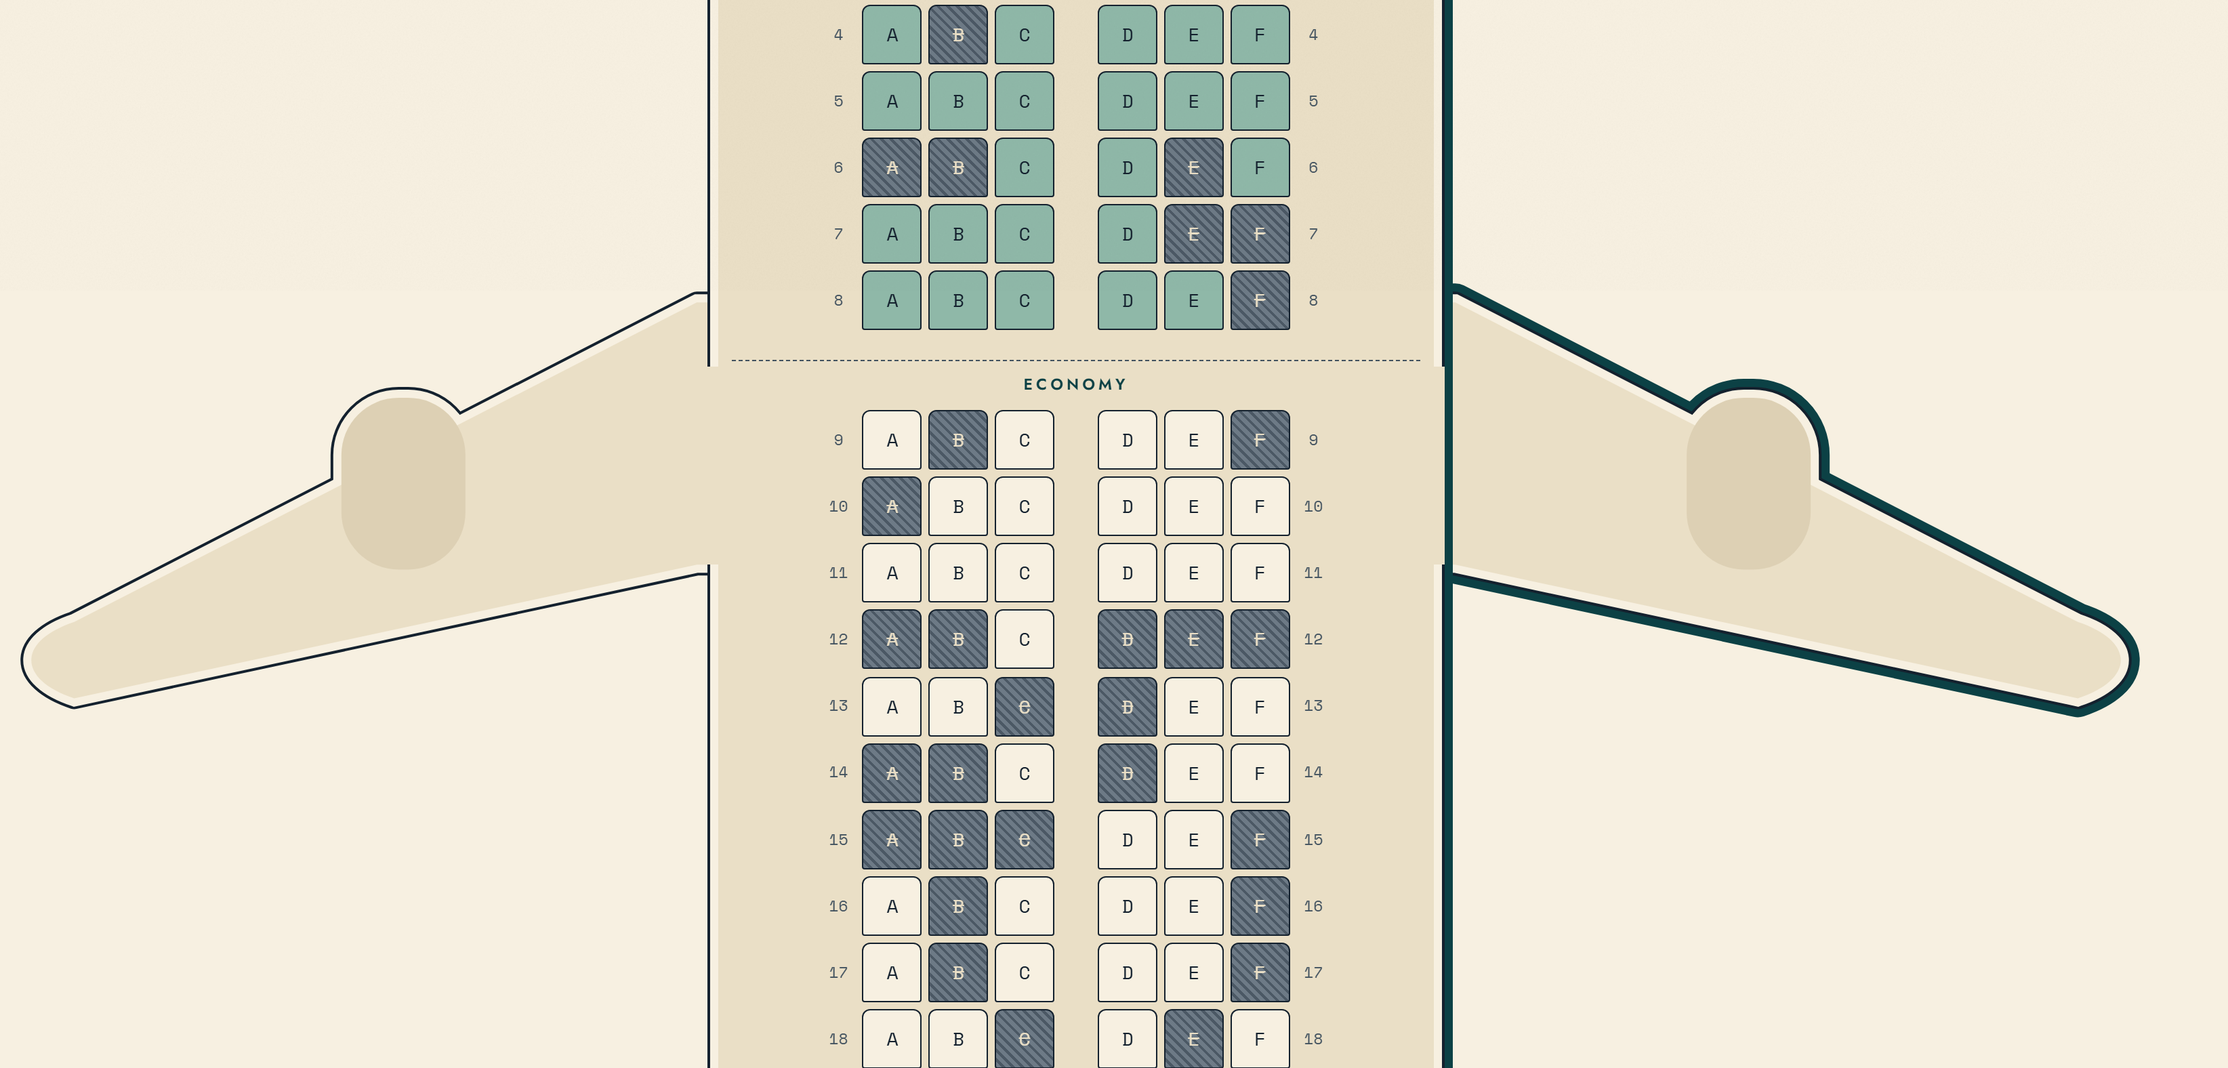
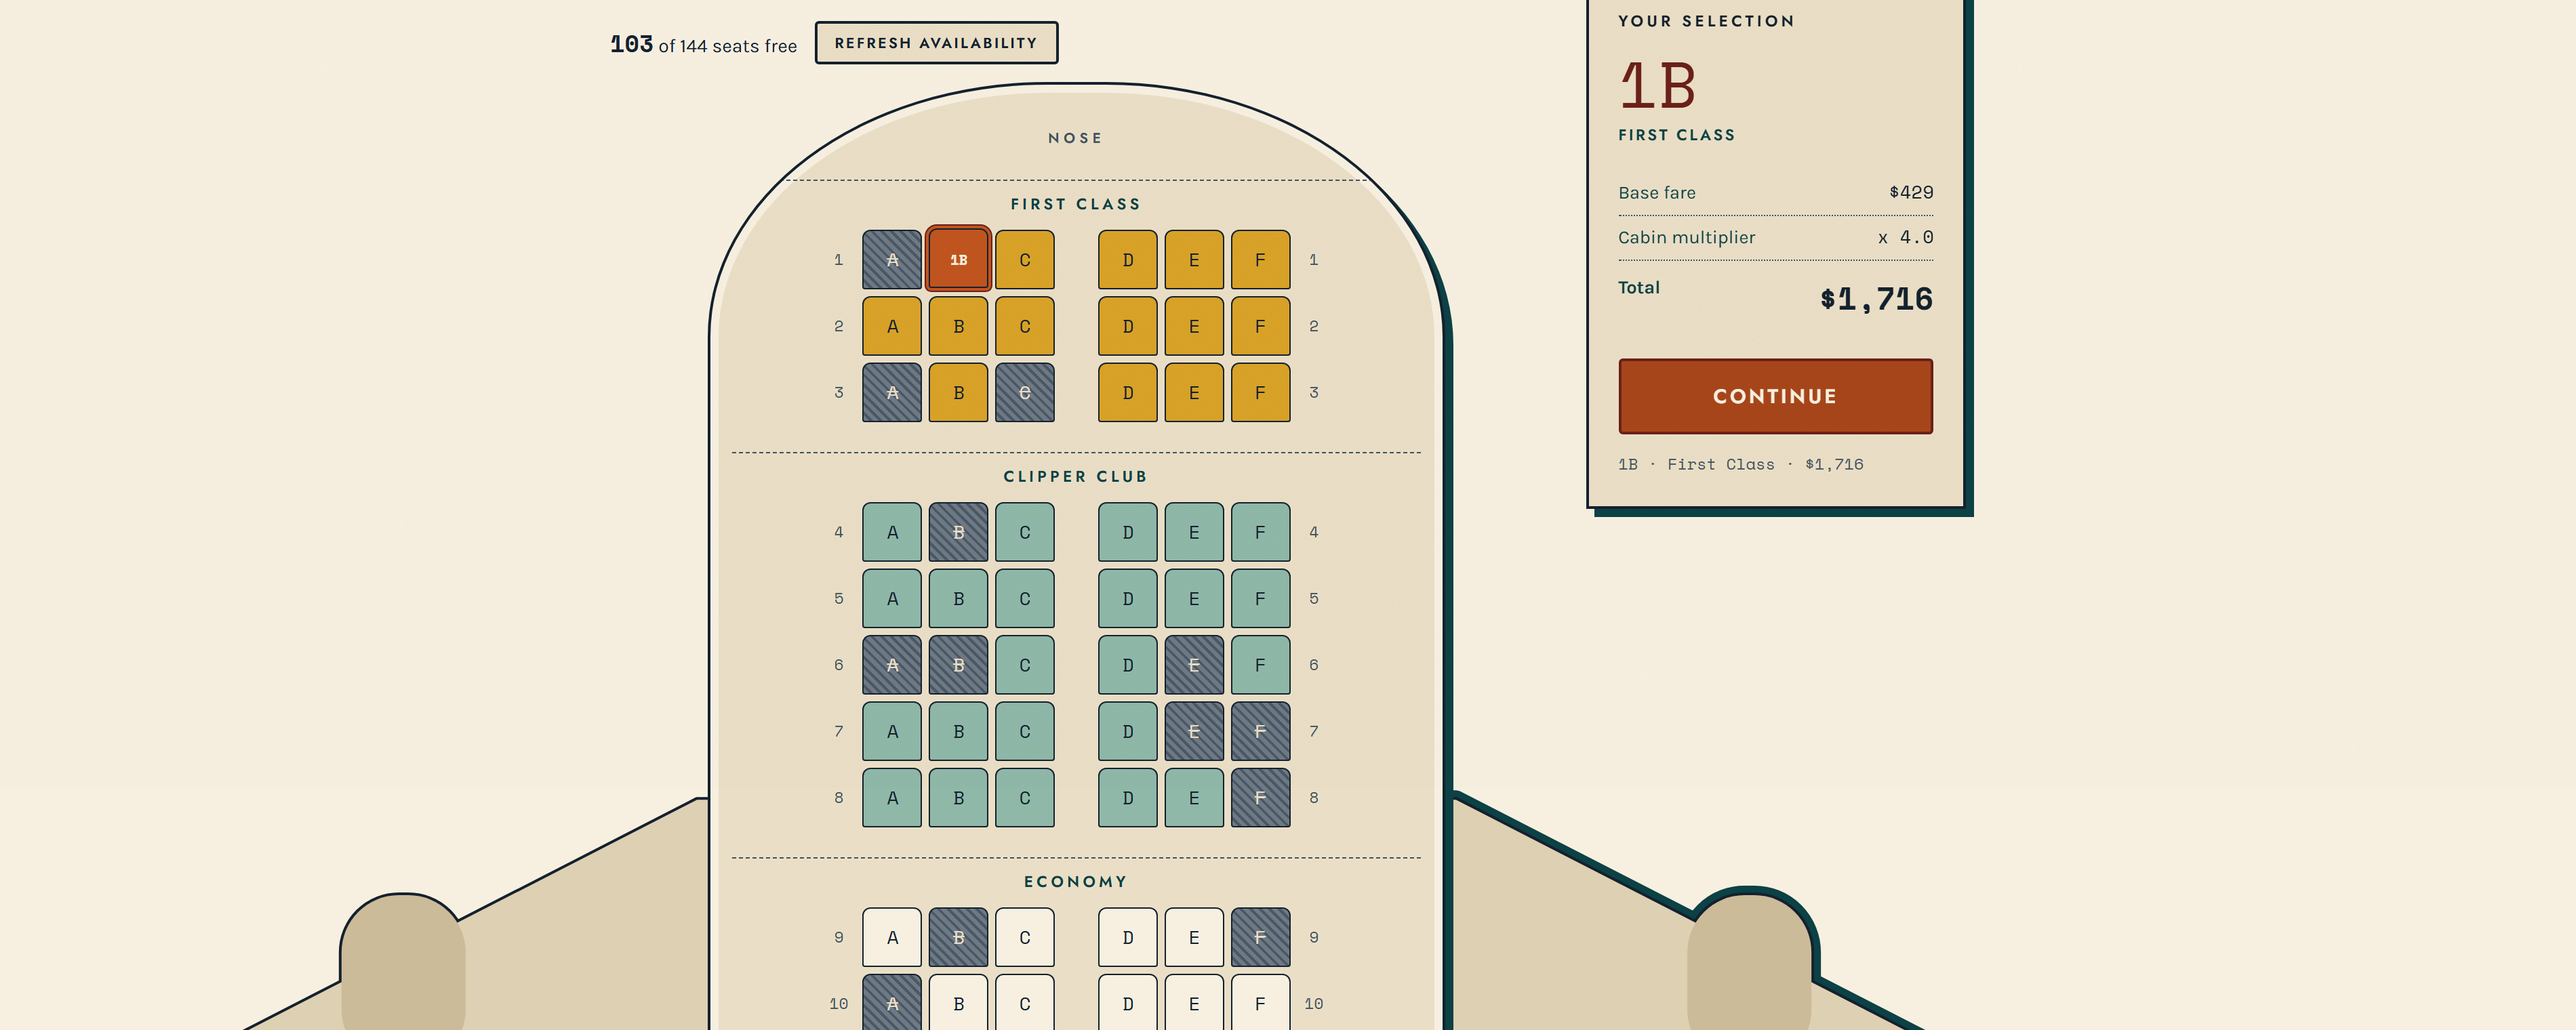
Drop the seamless treatment; it made the wings worse
Painting the wings the cabin's own interior colour and breaking its border to
merge them lost on both counts. The colour flattened them into slabs, and the
join stayed a hard edge rather than becoming a merge - the shell's border
simply stopped and started again.

Back to the wings a shade behind the cabin with their own outline, which
reads as an aircraft rather than an extension of the room. The inset ring and
the border patch are gone with it.

The span and the zoom behaviour from the last commit stay: 99rem, holding
2.91x the cabin at every zoom level.

Cabin unchanged. Line weights still match the shell: 2px port against its 2px
left border, 7px starboard against its 7px right.

129/129 pytest, 11/11 wing checks.

diff --git a/static/css/retro.css b/static/css/retro.css
@@ -1565,36 +1565,16 @@ a:hover { color: var(--orange-dk); }
    border paints 2px and its right edge paints 7px, the shadow overlapping the
    border by one. 4 and 14 give exactly those, since half of every stroke falls
    inside the shape and is buried by the fill that follows. */
-/* Widened so the bands can nest: each layer is drawn over the last, and what
-   shows of any one is the difference between its width and the next. Outward
-   from the fill that ends up on top: 6px paper, 2px ink, 6px teal — the shell's
-   inset ring, its border, and its shadow, in that order. */
-.cabin-wings__ink    { fill: var(--ink);     stroke: var(--ink);     stroke-width: 16; }
-.cabin-wings__teal   { fill: var(--teal-dk); stroke: var(--teal-dk); stroke-width: 28; }
-.cabin-wings__inline { fill: var(--paper);   stroke: var(--paper);   stroke-width: 12; }
-.cabin-wings__inline > * { vector-effect: non-scaling-stroke; }
+.cabin-wings__ink  { fill: var(--ink);     stroke: var(--ink);     stroke-width: 4; }
+.cabin-wings__teal { fill: var(--teal-dk); stroke: var(--teal-dk); stroke-width: 14; }
 
-/* the shell's own interior, so the wing is the same material as the cabin */
-.cabin-wings__skin { fill: var(--paper-2); }
-.cabin-wings__pod  { fill: #ddd0b4; }
-
-/* The seam. The shell paints its border across the wing root, which is the one
-   line stopping the two reading as a single piece; this covers exactly that
-   strip — border and inset ring — in the interior colour.
-
-   Sized off the wing's own geometry: its root chord is y 110-220 of a 300-unit
-   viewBox on an SVG a third as tall as it is wide, so the chord is 9.17rem
-   deep and its trailing edge lands on the cabin's midpoint. */
-.cabin-wings__join {
-  position: absolute;
-  top: calc(50% - 9.17rem);
-  height: 9.17rem;
-  width: 8px;                 /* the shell's 2px border plus its 6px inset */
-  background: var(--paper-2);
-}
-
-.cabin-wings__join--port      { left: calc(50% - 17rem); }
-.cabin-wings__join--starboard { right: calc(50% - 17rem); }
+/* A shade below the cabin's interior, so the wing reads as behind it. Painting
+   it the cabin's own colour and breaking the border to merge the two was worse
+   on both counts: the wings flattened into slabs, and the join stayed a hard
+   edge rather than becoming a merge. */
+.cabin-wings__skin { fill: var(--paper-3); }
+/* one step deeper again so the pods read against the wing */
+.cabin-wings__pod { fill: #cbbb99; }
 
 @media (max-width: 55rem) {
   /* the sidebar drops below, so the cabin is centred on the page after all */

diff --git a/templates/seats.html b/templates/seats.html
@@ -92,16 +92,6 @@
         <rect x="706" y="150" width="52" height="72" rx="24"/>
       </g>
 
-      {# the shell's inset ring, carried out along the wing #}
-      <g class="cabin-wings__inline">
-        <path d="M470 110 L291 110 L30 244 C 6 252 6 268 30 276 L291 220 L470 220 Z"/>
-        <rect x="142" y="150" width="52" height="72" rx="24"/>
-      </g>
-      <g class="cabin-wings__inline">
-        <path d="M430 110 L609 110 L870 244 C 894 252 894 268 870 276 L609 220 L430 220 Z"/>
-        <rect x="706" y="150" width="52" height="72" rx="24"/>
-      </g>
-
       <path class="cabin-wings__skin"
             d="M470 110 L291 110 L30 244 C 6 252 6 268 30 276 L291 220 L470 220 Z"/>
       <path class="cabin-wings__skin"
@@ -109,12 +99,6 @@
       <rect class="cabin-wings__pod" x="142" y="150" width="52" height="72" rx="24"/>
       <rect class="cabin-wings__pod" x="706" y="150" width="52" height="72" rx="24"/>
     </svg>
-
-    {# Breaks the shell's border where the wing arrives, so the two read as one
-       piece. Narrow enough to sit inside the shell's 1rem padding, so it can
-       never touch a seat. #}
-    <span class="cabin-wings__join cabin-wings__join--port" aria-hidden="true"></span>
-    <span class="cabin-wings__join cabin-wings__join--starboard" aria-hidden="true"></span>
 
     <div class="cabin-shell" id="seat-grid"
          data-flight-id="{{ flight.id }}"
